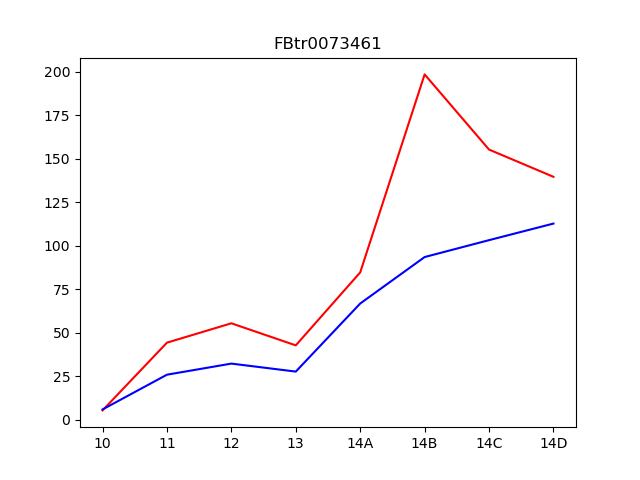
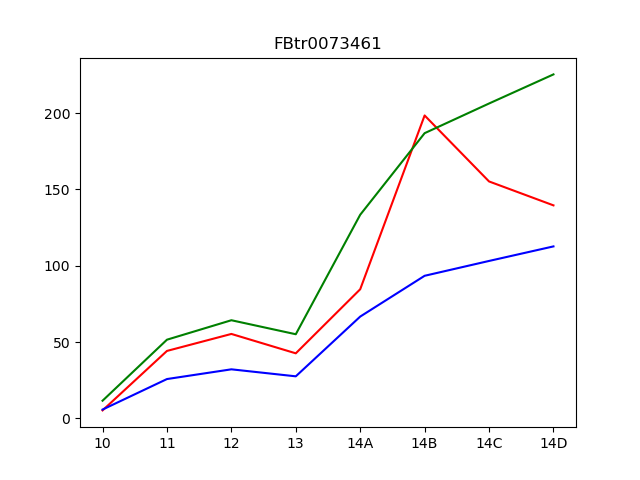
Add answer for exercise 1, step 3

diff --git a/day2-homework/plot-sisA.py b/day2-homework/plot-sisA.py
@@ -40,12 +40,14 @@ expressionmale = data[row,colsmale]
 x = [10,11,12,13,"14A","14B","14C","14D"]
 y = expression
 ymale = expressionmale
+ymaledouble = ymale * 2
 
 # Plot data
 fig, ax = plt.subplots()
 ax.set_title( "FBtr0073461" )
 ax.plot(x, y, c = "red", label = "female" )
 ax.plot(x, ymale, c = "blue", label = "male")
+ax.plot(x, ymaledouble, c = "green", label = "male x2")
 fig.savefig( "FBtr0073461.png" )
 plt.show()
 plt.close( fig )
